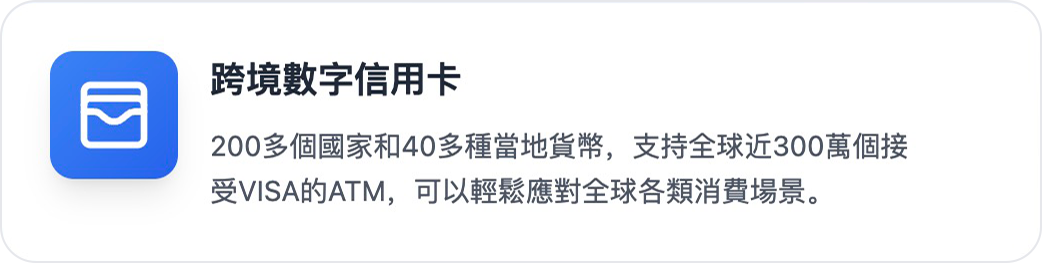
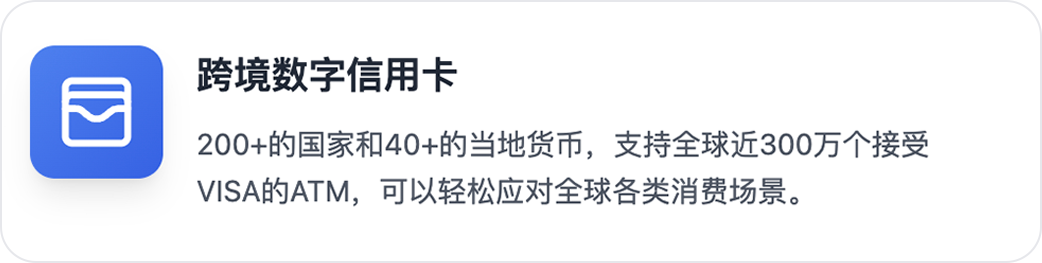
fix: update apay and img

Changed region(s): [[0.0307, 0.1521, 0.8906, 0.6996], [0.1843, 0.6692, 0.7985, 0.7909]]

diff --git a/src/components/cardUsageRateDescription.vue b/src/components/cardUsageRateDescription.vue
@@ -2,17 +2,17 @@
     <div>
         <div class="bg-base-200 min-h-screen px-3">
             <div class="hero-content flex-col lg:flex-row">
-                <img :src="U3CardMiniApp" alt="" class="max-w-sm rounded-lg shadow-2xl" />
+                <img :src="ApayCardMiniApp" alt="" class=" rounded-lg shadow-2xl" />
                 <div>
                     <h4 class="text-3xl font-bold">{{
                         t("message.reviewTheUsageRateDescription.U3rateDescription")
-                        }}</h4>
+                    }}</h4>
                 </div>
             </div>
             <div class="px-3">
                 <h4 class="text-1xl font-bold">{{
                     t("message.reviewTheUsageRateDescription.cardDescription1")
-                    }}</h4>
+                }}</h4>
                 <p class="py-3 px-3">
                     {{
                         t("message.reviewTheUsageRateDescription.cardDescription11")
@@ -32,7 +32,7 @@
             <div class="px-3 mt-5">
                 <h4 class="text-1xl font-bold">{{
                     t("message.reviewTheUsageRateDescription.cardDescription2")
-                    }}</h4>
+                }}</h4>
                 <p class="py-3 px-3">
                     {{
                         t("message.reviewTheUsageRateDescription.cardDescription21")
@@ -55,7 +55,7 @@
             <div class="px-3 mt-5">
                 <h4 class="text-1xl font-bold">{{
                     t("message.reviewTheUsageRateDescription.cardDescription3")
-                    }}</h4>
+                }}</h4>
                 <p class="py-3 px-3">
                     {{
                         t("message.reviewTheUsageRateDescription.cardDescription31")
@@ -69,7 +69,7 @@
             <div class="px-3 mt-5">
                 <h4 class="text-1xl font-bold">{{
                     t("message.reviewTheUsageRateDescription.cardDescription4")
-                    }}</h4>
+                }}</h4>
                 <p class="py-3 px-3">
                     {{
                         t("message.reviewTheUsageRateDescription.cardDescription41")
@@ -87,7 +87,7 @@
                 <p></p>
             </div>
 
-<!-- 
+            <!-- 
             <div class="fixed right-4 top-1/3 z-50">
                 <div class="dropdown dropdown-end">
                     <div class="btn m-1" role="button" tabindex="0">
@@ -146,7 +146,7 @@
 </template>
 
 <script lang="ts" setup>
-import U3CardMiniApp from "../assets/U3CardMiniApp.png";
+import ApayCardMiniApp from "../assets/ApayMiniApp.png";
 
 //------------- 多语言
 import { useI18n } from "vue-i18n";

diff --git a/src/components/home.vue b/src/components/home.vue
@@ -118,7 +118,7 @@
     <div class="px-3 mt-5">
         <div class="card bg-base-100 w-full shadow-md">
             <figure>
-                <img :src="u3CardPNG" alt="Shoes" class="" />
+                <img :src="apayCardPNG" alt="Shoes" class="" />
             </figure>
             <div class="card-body">
                 <h2 class="card-title">{{ t("message.card.card1") }}</h2>
@@ -176,7 +176,7 @@ import { onBeforeUnmount, onMounted, ref } from "vue";
 import CarouselImage1 from "../assets/CarouselImage1.png";
 import CarouselImage2 from "../assets/CarouselImage2.png";
 import CarouselImage3 from "../assets/CarouselImage3.png";
-import u3CardPNG from "../assets/U3CardMiniApp.png";
+import apayCardPNG from "../assets/ApayMiniApp.png";
 
 import { useI18n } from "vue-i18n";
 
